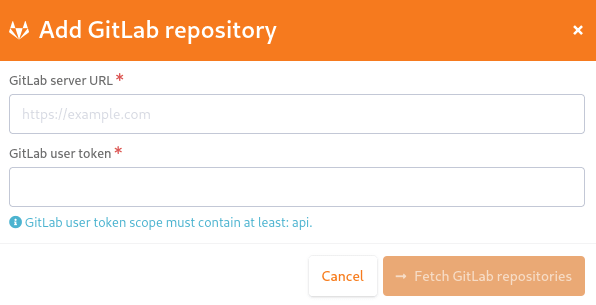
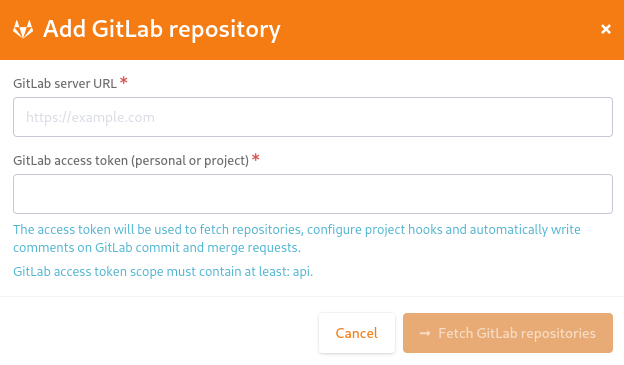
Update GitLab doc with screenshot and explanation
* GitLab is not under construction
* GitLab screenshot  update
* Explain difference to use project and personal access token

diff --git a/languages/en/user-guide/code-versioning/gitlab.rst b/languages/en/user-guide/code-versioning/gitlab.rst
@@ -1,11 +1,7 @@
 .. _version-control-with-gitlab:
 
-GitLab plugin
-=============
-
-.. note::
-
-  This plugin is under construction, the documentation and the plugin can change.
+GitLab
+======
 
 Overview
 --------
@@ -117,6 +113,14 @@ GitLab access Token
 
 You can use a personal or project access token. The token will be used to manage integration of GitLab repository in Tuleap,
 and to write comments automatically on GitLab commit or merge requests.
+
+
+With a project access token, you can only integrate the GitLab repository which provides the project access token.
+With a personal access token, you can integrate all repositories which you maintain.
+Don't forget that comments will be added automatically on GitLab commits and merge requests. These comments will be
+written with the access token, so if you provide a personal access token, the user providing this token will be displayed
+next to comments.
+
 
 .. note::
 
